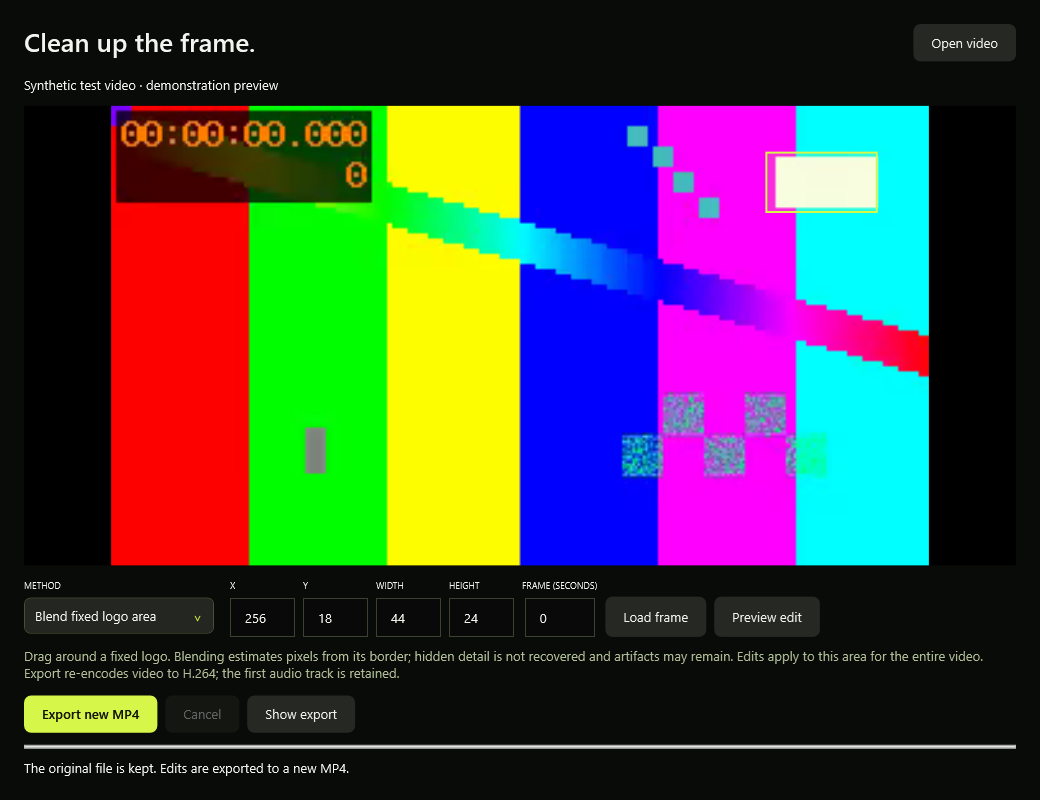
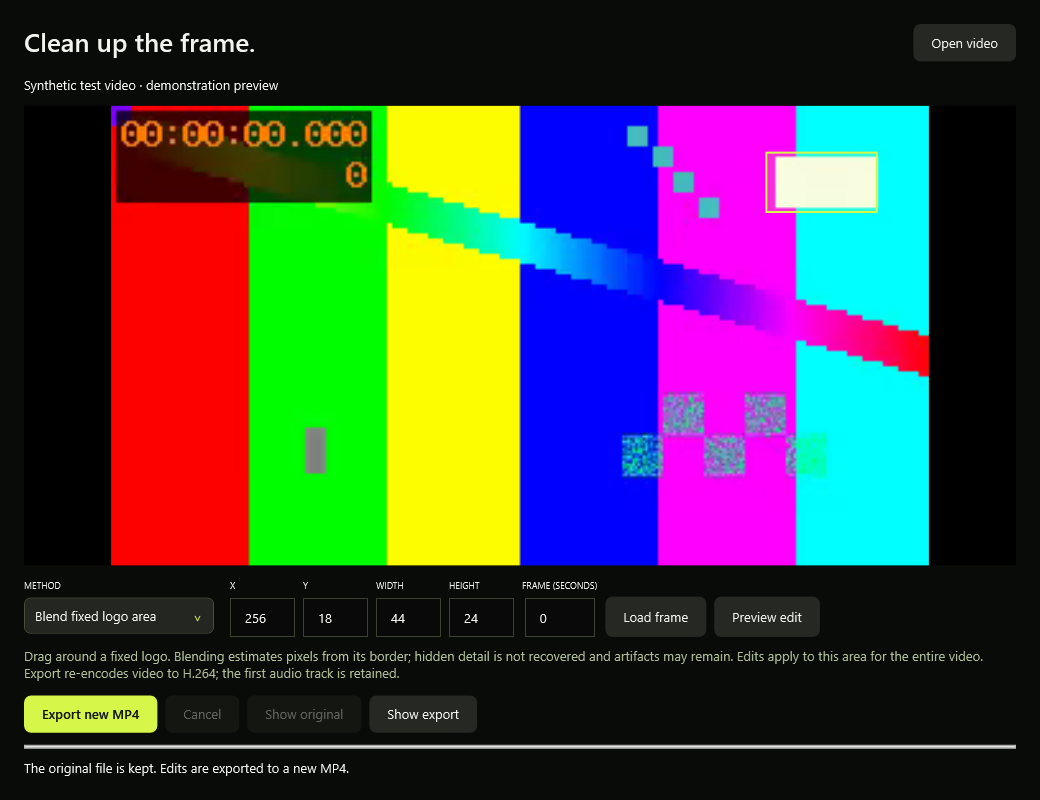
fix: refine cleanup previews and video stream selection

Changed region(s): [[0.2462, 0.8438, 0.4615, 0.9375]]

diff --git a/source/VideoCleanup.cs b/source/VideoCleanup.cs
@@ -23,7 +23,7 @@ namespace ClearFrame {
         public static VideoInfo ReadInfo(string json) {
             var root = Core.Json.Deserialize<Dictionary<string, object>>(json);
             var streams = Core.Entries(root, "streams").ToList();
-            var video = streams.FirstOrDefault(s => Core.S(s, "codec_type") == "video" && Core.N(s, "width") > 0);
+            var video = streams.FirstOrDefault(s => Core.S(s, "codec_type") == "video" && Core.N(s, "width") > 0 && !IsCoverArt(s));
             if (video == null) throw new Exception("This file does not contain a readable video stream.");
             string transfer = Core.S(video, "color_transfer");
             if (transfer == "smpte2084" || transfer == "arib-std-b67") throw new Exception("HDR editing is not supported in this version. Use an SDR source to avoid unexpected colors.");
@@ -35,10 +35,22 @@ namespace ClearFrame {
             object raw;
             var format = root.TryGetValue("format", out raw) ? raw as Dictionary<string, object> : null;
             double duration = format == null ? 0 : Core.N(format, "duration");
-            if (duration <= 0) throw new Exception("Cannot determine this video's duration.");
+            if (double.IsNaN(duration) || double.IsInfinity(duration) || duration <= 0 || duration > TimeSpan.MaxValue.TotalSeconds) throw new Exception("Cannot determine this video's duration.");
+            if (width <= 0 || height <= 0) throw new Exception("Cannot determine this video's dimensions.");
             if (width % 2 != 0 || height % 2 != 0) throw new Exception("This editor currently requires even video dimensions for H.264 export.");
             var audio = streams.FirstOrDefault(s => Core.S(s, "codec_type") == "audio");
             return new VideoInfo { Width = width, Height = height, Duration = duration, Audio = audio != null, AudioCodec = audio == null ? "" : Core.S(audio, "codec_name") };
+        }
+        static bool IsCoverArt(Dictionary<string, object> stream) {
+            object value;
+            var disposition = stream.TryGetValue("disposition", out value) ? value as Dictionary<string, object> : null;
+            return disposition != null && Core.N(disposition, "attached_pic") != 0;
+        }
+        public static double FrameTime(string text, double duration) {
+            double value;
+            if (!double.TryParse(text, NumberStyles.Float, CultureInfo.InvariantCulture, out value) || double.IsNaN(value) || double.IsInfinity(value) || value < 0 || value >= duration)
+                throw new Exception("Enter a frame time from 0 up to the video's duration, in seconds.");
+            return value;
         }
         public static string Filter(string mode, int x, int y, int width, int height, int videoWidth, int videoHeight) {
             if (x < 0 || y < 0 || width < 8 || height < 8 || (long)x + width > videoWidth || (long)y + height > videoHeight)
@@ -59,7 +71,10 @@ namespace ClearFrame {
                 throw new Exception("Export verification failed: dimensions, audio or duration did not match.");
         }
         public static List<string> ExportArgs(string input, string output, string filter, bool copyAudio) {
-            return new List<string> { "-hide_banner", "-loglevel", "error", "-nostdin", "-n", "-i", input, "-map", "0:v:0", "-map", "0:a:0?", "-vf", filter, "-c:v", "libx264", "-preset", "medium", "-crf", "18", "-pix_fmt", "yuv420p", "-c:a", copyAudio ? "copy" : "aac", "-map_metadata", "-1", "-movflags", "+faststart", "-progress", "pipe:1", "-nostats", output };
+            return new List<string> { "-hide_banner", "-loglevel", "error", "-nostdin", "-n", "-i", input, "-map", "0:V:0", "-map", "0:a:0?", "-vf", filter, "-c:v", "libx264", "-preset", "medium", "-crf", "18", "-pix_fmt", "yuv420p", "-c:a", copyAudio ? "copy" : "aac", "-map_metadata", "-1", "-movflags", "+faststart", "-progress", "pipe:1", "-nostats", output };
+        }
+        public static string[] PreviewArgs(string input, string output, string filter, double seconds) {
+            return new[] { "-hide_banner", "-loglevel", "error", "-nostdin", "-ss", seconds.ToString(CultureInfo.InvariantCulture), "-i", input, "-map", "0:V:0", "-frames:v", "1", "-vf", (string.IsNullOrEmpty(filter) ? "" : filter + ",") + "scale=960:540:force_original_aspect_ratio=decrease:reset_sar=1", "-update", "1", "-y", output };
         }
     }
     public class VideoCleanup {
@@ -77,11 +92,13 @@ namespace ClearFrame {
         readonly Button open = new Button { Content = "Open video" };
         readonly Button refresh = new Button { Content = "Load frame" };
         readonly Button previewEdit = new Button { Content = "Preview edit" };
+        readonly Button compare = new Button { Content = "Show original", IsEnabled = false };
         readonly Button export = new Button { Content = "Export new MP4" };
         readonly Button cancel = new Button { Content = "Cancel", IsEnabled = false };
         readonly ProgressBar progress = new ProgressBar { Height = 4, Minimum = 0, Maximum = 100 };
         VideoInfo info;
-        string input, lastFrame, outputFile;
+        string input, outputFile;
+        BitmapSource originalFrame, processedFrame;
         CancellationTokenSource cancellation;
         bool busy, selecting, updatingFields, editedPreview;
         Point start;
@@ -97,16 +114,16 @@ namespace ClearFrame {
             var options = new WrapPanel { Margin = new Thickness(0,14,0,10) }; Grid.SetRow(options,3); layout.Children.Add(options);
             method.Items.Add("Blend fixed logo area"); method.Items.Add("Blur selected area"); method.Items.Add("Crop to selected area"); method.SelectedIndex = 0; options.Children.Add(Field("METHOD",method,16));
             string[] names = { "X", "Y", "WIDTH", "HEIGHT" };
-            for(int i=0;i<4;i++) { fields[i]=new TextBox { Text="0", Width=65 }; options.Children.Add(Field(names[i],fields[i],8)); fields[i].TextChanged+=(s,e)=> { if(!updatingFields)DrawSelection(); }; }
+            for(int i=0;i<4;i++) { fields[i]=new TextBox { Text="0", Width=65 }; options.Children.Add(Field(names[i],fields[i],8)); fields[i].TextChanged+=(s,e)=> { if(!updatingFields){InvalidateEdit();DrawSelection();} }; }
             options.Children.Add(Field("FRAME (SECONDS)",seconds,8)); refresh.Margin=new Thickness(0,17,8,0);options.Children.Add(refresh);previewEdit.Margin=new Thickness(0,17,0,0);options.Children.Add(previewEdit);
             help.Foreground = new SolidColorBrush(Color.FromRgb(177,191,153)); help.Margin = new Thickness(0,0,0,14); Grid.SetRow(help,4); layout.Children.Add(help);
             var footer = new Grid(); footer.RowDefinitions.Add(new RowDefinition{Height=GridLength.Auto});footer.RowDefinitions.Add(new RowDefinition{Height=GridLength.Auto});footer.RowDefinitions.Add(new RowDefinition{Height=GridLength.Auto});Grid.SetRow(footer,5);layout.Children.Add(footer);
-            var buttons=new StackPanel{Orientation=Orientation.Horizontal};export.Style=(Style)owner.FindResource("Primary");export.Margin=new Thickness(0,0,8,0);buttons.Children.Add(export);buttons.Children.Add(cancel);var show=new Button{Content="Show export",Margin=new Thickness(8,0,0,0)};show.Click+=(s,e)=>{if(!string.IsNullOrEmpty(outputFile)&&File.Exists(outputFile))System.Diagnostics.Process.Start("explorer.exe","/select,"+Core.Quote(outputFile));};buttons.Children.Add(show);footer.Children.Add(buttons);
+            var buttons=new StackPanel{Orientation=Orientation.Horizontal};export.Style=(Style)owner.FindResource("Primary");export.Margin=new Thickness(0,0,8,0);buttons.Children.Add(export);buttons.Children.Add(cancel);compare.Margin=new Thickness(8,0,0,0);buttons.Children.Add(compare);var show=new Button{Content="Show export",Margin=new Thickness(8,0,0,0)};show.Click+=(s,e)=>{try{if(!string.IsNullOrEmpty(outputFile)&&File.Exists(outputFile))System.Diagnostics.Process.Start("explorer.exe","/select,"+Core.Quote(outputFile));else status.Text="Export a video first to show its location.";}catch(Exception ex){status.Text="Could not open the export location: "+ex.Message;}};buttons.Children.Add(show);footer.Children.Add(buttons);
             progress.Margin=new Thickness(0,12,0,10);Grid.SetRow(progress,1);footer.Children.Add(progress);Grid.SetRow(status,2);footer.Children.Add(status);
             window.Content=layout;
             open.Click+=async(s,e)=>await Open();refresh.Click+=async(s,e)=>await Frame(false);previewEdit.Click+=async(s,e)=>await Frame(true);export.Click+=async(s,e)=>await Export();cancel.Click+=(s,e)=>{if(cancellation!=null)cancellation.Cancel();};
-            method.SelectionChanged+=(s,e)=>Hint(); Hint();SetBusy(false);
-            canvas.MouseLeftButtonDown+=(s,e)=>{if(info==null||busy)return;if(editedPreview){status.Text="Use Load frame to select an area on the original picture.";return;}start=ToVideo(e.GetPosition(canvas));selecting=true;canvas.CaptureMouse();e.Handled=true;};
+            method.SelectionChanged+=(s,e)=>{Hint();InvalidateEdit();};seconds.TextChanged+=(s,e)=>ClearFrames();compare.Click+=(s,e)=>ShowFrame(!editedPreview); Hint();SetBusy(false);
+            canvas.MouseLeftButtonDown+=(s,e)=>{if(info==null||busy||picture.Source==null)return;if(editedPreview){status.Text="Use Show original to select an area on the original picture.";return;}start=ToVideo(e.GetPosition(canvas));selecting=true;canvas.CaptureMouse();e.Handled=true;};
             canvas.MouseMove+=(s,e)=>{if(!selecting)return;Point end=ToVideo(e.GetPosition(canvas));SetRectangle((int)Math.Min(start.X,end.X),(int)Math.Min(start.Y,end.Y),(int)Math.Abs(start.X-end.X),(int)Math.Abs(start.Y-end.Y));};
             canvas.MouseLeftButtonUp+=(s,e)=>{selecting=false;canvas.ReleaseMouseCapture();};canvas.SizeChanged+=(s,e)=>DrawSelection();
             window.Closing+=(s,e)=>{if(busy){e.Cancel=true;status.Text="Cancel the current operation and wait before closing.";}};
@@ -114,18 +131,29 @@ namespace ClearFrame {
         StackPanel Field(string label,FrameworkElement control,int margin){var panel=new StackPanel{Margin=new Thickness(0,0,margin,0)};panel.Children.Add(new TextBlock{Text=label,FontSize=9,Margin=new Thickness(0,0,0,6)});panel.Children.Add(control);return panel;}
         string Mode(){return new[]{"blend","blur","crop"}[method.SelectedIndex];}
         void Hint(){help.Text=Mode()=="crop"?"Drag the rectangle around the picture you want to KEEP. Everything outside it is removed.":Mode()=="blend"?"Drag around a fixed logo. Blending estimates pixels from its border; hidden detail is not recovered and artifacts may remain.":"Drag around the area to obscure. Blur hides detail; it does not reconstruct the original picture.";help.Text+=" Edits apply to this area for the entire video. Export re-encodes video to H.264; the first audio track is retained.";}
-        void SetBusy(bool value){busy=value;open.IsEnabled=!value;refresh.IsEnabled=!value&&info!=null;previewEdit.IsEnabled=!value&&info!=null;export.IsEnabled=!value&&info!=null;method.IsEnabled=!value;seconds.IsEnabled=!value;foreach(var field in fields)field.IsEnabled=!value;cancel.IsEnabled=value;}
+        void SetBusy(bool value){busy=value;open.IsEnabled=!value;refresh.IsEnabled=!value&&info!=null;previewEdit.IsEnabled=!value&&info!=null;export.IsEnabled=!value&&info!=null;method.IsEnabled=!value;seconds.IsEnabled=!value;foreach(var field in fields)field.IsEnabled=!value;cancel.IsEnabled=value;compare.IsEnabled=!value&&originalFrame!=null&&processedFrame!=null;}
         string Tool(string name){string file=Path.Combine(tools,name+".exe");if(!File.Exists(file))throw new Exception("Missing "+name+". Run Get-Tools.ps1 before using video cleanup.");return file;}
         async Task<string> Probe(string path,CancellationToken token){var r=await Core.Run(Tool("ffprobe"),new[]{"-v","error","-show_streams","-show_format","-of","json",path},token,60,null);if(r.Code!=0)throw new Exception(Core.Friendly(r.Error));return r.Output;}
-        async Task Open(){var dialog=new OpenFileDialog{Filter="Video files|*.mp4;*.mkv;*.mov;*.webm;*.avi;*.m4v|All files|*.*"};if(dialog.ShowDialog(window)!=true)return;bool loaded=false;SetBusy(true);cancellation=new CancellationTokenSource();try{var details=CleanupCore.ReadInfo(await Probe(dialog.FileName,cancellation.Token));input=dialog.FileName;info=details;loaded=true;editedPreview=false;fileLabel.Text=Path.GetFileName(input)+" · "+info.Width+" × "+info.Height+" · "+TimeSpan.FromSeconds(info.Duration).ToString(@"hh\:mm\:ss");SetRectangle(Math.Max(2,info.Width/10),Math.Max(2,info.Height/10),Math.Max(8,info.Width/5),Math.Max(8,info.Height/5));seconds.Text="0";picture.Source=null;status.Text="Video loaded. Drag on the frame to select the area.";}catch(Exception ex){status.Text=ex.Message;}finally{cancellation.Dispose();cancellation=null;SetBusy(false);}if(loaded)await Frame(false);}
-        double FrameTime(){double value;if(!double.TryParse(seconds.Text,NumberStyles.Float,CultureInfo.InvariantCulture,out value)||value<0||value>=info.Duration)throw new Exception("Enter a frame time from 0 up to the video's duration, in seconds.");return value;}
+        async Task Open(){var dialog=new OpenFileDialog{Filter="Video files|*.mp4;*.mkv;*.mov;*.webm;*.avi;*.m4v|All files|*.*"};if(dialog.ShowDialog(window)!=true)return;bool loaded=false;SetBusy(true);cancellation=new CancellationTokenSource();try{var details=CleanupCore.ReadInfo(await Probe(dialog.FileName,cancellation.Token));input=dialog.FileName;info=details;loaded=true;ClearFrames();fileLabel.Text=Path.GetFileName(input)+" · "+info.Width+" × "+info.Height+" · "+TimeSpan.FromSeconds(info.Duration).ToString(@"hh\:mm\:ss");SetRectangle(Math.Max(2,info.Width/10),Math.Max(2,info.Height/10),Math.Max(8,info.Width/5),Math.Max(8,info.Height/5));seconds.Text="0";status.Text="Video loaded. Drag on the frame to select the area.";}catch(Exception ex){status.Text=ex.Message;}finally{cancellation.Dispose();cancellation=null;SetBusy(false);}if(loaded)await Frame(false);}
         int[] Region(){int[] r=new int[4];for(int i=0;i<4;i++)if(!int.TryParse(fields[i].Text,out r[i]))throw new Exception("Rectangle values must be whole pixels.");return r;}
         string Filter(){var r=Region();return CleanupCore.Filter(Mode(),r[0],r[1],r[2],r[3],info.Width,info.Height);}
-        async Task Frame(bool edited){if(info==null||busy)return;SetBusy(true);cancellation=new CancellationTokenSource();try{Directory.CreateDirectory(cache);lastFrame=Path.Combine(cache,Guid.NewGuid().ToString("N")+".png");string filter=(edited?Filter()+",":"")+"scale=960:540:force_original_aspect_ratio=decrease,setsar=1";var r=await Core.Run(Tool("ffmpeg"),new[]{"-hide_banner","-loglevel","error","-nostdin","-ss",FrameTime().ToString(CultureInfo.InvariantCulture),"-i",input,"-frames:v","1","-vf",filter,"-update","1","-y",lastFrame},cancellation.Token,90,null);if(r.Code!=0)throw new Exception(Core.Friendly(r.Error));var bitmap=new BitmapImage();bitmap.BeginInit();bitmap.CacheOption=BitmapCacheOption.OnLoad;bitmap.UriSource=new Uri(lastFrame);bitmap.EndInit();bitmap.Freeze();picture.Source=bitmap;editedPreview=edited;selection.Visibility=edited?Visibility.Hidden:Visibility.Visible;status.Text=edited?"Edited-frame preview. Load frame returns to the original for selecting an area.":"Original frame. Drag to select an area, then preview the edit.";DrawSelection();}catch(OperationCanceledException){status.Text="Preview cancelled.";}catch(Exception ex){status.Text=ex.Message;}finally{if(lastFrame!=null&&File.Exists(lastFrame))try{File.Delete(lastFrame);}catch{} cancellation.Dispose();cancellation=null;SetBusy(false);}}
-        Rect DisplayRect(){double scale=Math.Min(canvas.ActualWidth/info.Width,canvas.ActualHeight/info.Height);return new Rect((canvas.ActualWidth-info.Width*scale)/2,(canvas.ActualHeight-info.Height*scale)/2,info.Width*scale,info.Height*scale);}
+        void ClearFrames(){originalFrame=null;processedFrame=null;picture.Source=null;editedPreview=false;selection.Visibility=Visibility.Hidden;compare.IsEnabled=false;compare.Content="Show original";if(info!=null)status.Text="Frame time changed. Load frame or Preview edit to view it.";}
+        void InvalidateEdit(){processedFrame=null;compare.IsEnabled=false;if(editedPreview)ShowFrame(false);}
+        void ShowFrame(bool edited){var frame=edited?processedFrame:originalFrame;if(frame==null)return;picture.Source=frame;editedPreview=edited;selection.Visibility=edited?Visibility.Hidden:Visibility.Visible;compare.Content=edited?"Show original":"Show edit";compare.IsEnabled=!busy&&originalFrame!=null&&processedFrame!=null;status.Text=edited?"Edited frame. Show original compares the same frame before editing.":"Original frame. Drag to select an area, then preview the edit.";DrawSelection();}
+        async Task<BitmapSource> ReadFrame(string filter,double time,CancellationToken token){
+            Directory.CreateDirectory(cache);string path=Path.Combine(cache,Guid.NewGuid().ToString("N")+".png");
+            try{var result=await Core.Run(Tool("ffmpeg"),CleanupCore.PreviewArgs(input,path,filter,time),token,90,null);if(result.Code!=0)throw new Exception(Core.Friendly(result.Error));token.ThrowIfCancellationRequested();var bitmap=new BitmapImage();bitmap.BeginInit();bitmap.CacheOption=BitmapCacheOption.OnLoad;bitmap.UriSource=new Uri(path);bitmap.EndInit();bitmap.Freeze();return bitmap;}
+            finally{if(File.Exists(path))try{File.Delete(path);}catch{}}
+        }
+        async Task Frame(bool edited){
+            if(info==null||busy)return;SetBusy(true);cancellation=new CancellationTokenSource();
+            try{double time=CleanupCore.FrameTime(seconds.Text,info.Duration);string filter=edited?Filter():null;if(originalFrame==null||!edited){originalFrame=await ReadFrame(null,time,cancellation.Token);processedFrame=null;ShowFrame(false);}if(edited){processedFrame=await ReadFrame(filter,time,cancellation.Token);ShowFrame(true);}}
+            catch(OperationCanceledException){status.Text="Preview cancelled.";}catch(Exception ex){status.Text=ex.Message;}finally{cancellation.Dispose();cancellation=null;SetBusy(false);}
+        }
+        Rect DisplayRect(){double width=originalFrame==null?info.Width:originalFrame.PixelWidth,height=originalFrame==null?info.Height:originalFrame.PixelHeight;double scale=Math.Min(canvas.ActualWidth/width,canvas.ActualHeight/height);return new Rect((canvas.ActualWidth-width*scale)/2,(canvas.ActualHeight-height*scale)/2,width*scale,height*scale);}
         Point ToVideo(Point p){var rect=DisplayRect();return new Point(Math.Max(0,Math.Min(info.Width,(p.X-rect.X)/rect.Width*info.Width)),Math.Max(0,Math.Min(info.Height,(p.Y-rect.Y)/rect.Height*info.Height)));}
-        void SetRectangle(int x,int y,int width,int height){updatingFields=true;int[] r={x/2*2,y/2*2,width/2*2,height/2*2};for(int i=0;i<4;i++)fields[i].Text=r[i].ToString();updatingFields=false;DrawSelection();}
-        void DrawSelection(){if(info==null||canvas.ActualWidth<=0)return;try{var r=Region();var rect=DisplayRect();double scale=rect.Width/info.Width;Canvas.SetLeft(selection,rect.X+r[0]*scale);Canvas.SetTop(selection,rect.Y+r[1]*scale);selection.Width=Math.Max(0,r[2]*scale);selection.Height=Math.Max(0,r[3]*scale);}catch{}}
+        void SetRectangle(int x,int y,int width,int height){updatingFields=true;int[] r={x/2*2,y/2*2,width/2*2,height/2*2};for(int i=0;i<4;i++)fields[i].Text=r[i].ToString();updatingFields=false;InvalidateEdit();DrawSelection();}
+        void DrawSelection(){if(info==null||canvas.ActualWidth<=0)return;try{var r=Region();var rect=DisplayRect();double scaleX=rect.Width/info.Width,scaleY=rect.Height/info.Height;Canvas.SetLeft(selection,rect.X+r[0]*scaleX);Canvas.SetTop(selection,rect.Y+r[1]*scaleY);selection.Width=Math.Max(0,r[2]*scaleX);selection.Height=Math.Max(0,r[3]*scaleY);}catch{}}
         async Task Export(){if(info==null||busy)return;string filter;int[] region;try{filter=Filter();region=Region();}catch(Exception ex){status.Text=ex.Message;return;}var dialog=new SaveFileDialog{Filter="MP4 video|*.mp4",DefaultExt=".mp4",AddExtension=true,FileName=Path.GetFileNameWithoutExtension(input)+"-clean.mp4",InitialDirectory=Path.GetDirectoryName(input),OverwritePrompt=false};if(dialog.ShowDialog(window)!=true)return;string target=Path.GetFullPath(dialog.FileName);if(File.Exists(target)){status.Text="Choose a new filename. Existing files, including the original, are never overwritten.";return;}if(!string.Equals(Path.GetExtension(target),".mp4",StringComparison.OrdinalIgnoreCase)){status.Text="This version exports MP4 files. Use the .mp4 extension.";return;}
             string temporary=target+".partial-"+Guid.NewGuid().ToString("N")+".mp4";SetBusy(true);progress.Value=0;cancellation=new CancellationTokenSource();try{var drive=new DriveInfo(Path.GetPathRoot(target));if(drive.IsReady&&drive.AvailableFreeSpace<Math.Max(new FileInfo(input).Length,536870912L))throw new Exception("Free additional disk space before exporting. Final output size depends on the source.");status.Text="Exporting a new MP4. You can cancel; the original is kept.";
                 var result=await Core.Run(Tool("ffmpeg"),CleanupCore.ExportArgs(input,temporary,filter,info.AudioCodec=="aac"),cancellation.Token,86400,line=>{if(line.StartsWith("out_time_us=")){double time;if(double.TryParse(line.Substring(12),NumberStyles.Float,CultureInfo.InvariantCulture,out time))window.Dispatcher.BeginInvoke(new Action(()=>progress.Value=Math.Min(99,time/1000000/info.Duration*100)));}});
@@ -133,9 +161,29 @@ namespace ClearFrame {
             }catch(OperationCanceledException){status.Text="Export cancelled. Original file kept.";}catch(Exception ex){status.Text=ex.Message;}finally{if(File.Exists(temporary))try{File.Delete(temporary);}catch{} cancellation.Dispose();cancellation=null;SetBusy(false);}
         }
         public void Show(){window.ShowDialog();}
+        public void CheckOfflineInterface(string report){
+            int checks=0;Action<bool,string> check=(ok,name)=>{if(!ok)throw new Exception("Editor check failed: "+name);checks++;};
+            check(!compare.IsEnabled&&!export.IsEnabled,"empty editor actions");
+            info=new VideoInfo{Width=320,Height=180,Duration=2};
+            var before=BitmapSource.Create(320,180,96,96,PixelFormats.Bgr32,null,new byte[320*180*4],320*4);before.Freeze();
+            var after=BitmapSource.Create(240,180,96,96,PixelFormats.Bgr32,null,new byte[240*180*4],240*4);after.Freeze();
+            originalFrame=before;processedFrame=after;SetBusy(false);ShowFrame(true);
+            check(picture.Source==after&&compare.IsEnabled&&selection.Visibility==Visibility.Hidden,"edited preview");
+            compare.RaiseEvent(new RoutedEventArgs(Button.ClickEvent));
+            check(picture.Source==before&&selection.Visibility==Visibility.Visible&&(string)compare.Content=="Show edit","original comparison");
+            compare.RaiseEvent(new RoutedEventArgs(Button.ClickEvent));check(picture.Source==after,"cached edit comparison");
+            fields[0].Text="12";check(picture.Source==before&&processedFrame==null&&!compare.IsEnabled,"numeric edit invalidates preview");
+            processedFrame=after;ShowFrame(true);method.SelectedIndex=1;check(picture.Source==before&&processedFrame==null,"method invalidates preview");
+            processedFrame=after;ShowFrame(true);SetRectangle(10,10,40,20);check(picture.Source==before&&processedFrame==null,"drag selection invalidates preview");
+            processedFrame=after;ShowFrame(true);SetBusy(true);check(!compare.IsEnabled&&!previewEdit.IsEnabled&&!export.IsEnabled,"busy actions");SetBusy(false);
+            seconds.Text="1";check(picture.Source==null&&originalFrame==null&&processedFrame==null&&!compare.IsEnabled&&selection.Visibility==Visibility.Hidden,"time invalidates both previews");
+            originalFrame=BitmapSource.Create(640,320,96,96,PixelFormats.Bgr32,null,new byte[640*320*4],640*4);canvas.Measure(new Size(640,360));canvas.Arrange(new Rect(0,0,640,360));ShowFrame(false);SetRectangle(10,10,40,20);var point=ToVideo(new Point(320,100));
+            check(Math.Abs(point.X-160)<0.01&&Math.Abs(point.Y-45)<0.01&&Math.Abs(Canvas.GetTop(selection)-(20+10*320.0/180))<0.01,"non-square-pixel selection mapping");
+            File.WriteAllText(report,checks+" offline editor control checks passed.");
+        }
         public void Render(string file,string framePath){
             if(!string.IsNullOrEmpty(framePath)){
-                var bitmap=new BitmapImage();bitmap.BeginInit();bitmap.CacheOption=BitmapCacheOption.OnLoad;bitmap.UriSource=new Uri(Path.GetFullPath(framePath));bitmap.EndInit();bitmap.Freeze();picture.Source=bitmap;
+                var bitmap=new BitmapImage();bitmap.BeginInit();bitmap.CacheOption=BitmapCacheOption.OnLoad;bitmap.UriSource=new Uri(Path.GetFullPath(framePath));bitmap.EndInit();bitmap.Freeze();picture.Source=bitmap;originalFrame=bitmap;
                 info=new VideoInfo{Width=bitmap.PixelWidth,Height=bitmap.PixelHeight,Duration=1.5,Audio=true};fileLabel.Text="Synthetic test video · demonstration preview";SetRectangle(info.Width*4/5,info.Height/10,info.Width/7,info.Height/7);SetBusy(false);
             }
             var root=(Grid)window.Content;root.Margin=new Thickness(0);root.Width=992;root.Height=752;root.Measure(new Size(992,752));root.Arrange(new Rect(0,0,992,752));root.UpdateLayout();DrawSelection();

diff --git a/tests/CleanupMediaTests.cs b/tests/CleanupMediaTests.cs
@@ -13,6 +13,12 @@ class CleanupMediaTests {
         return result.Output;
     }
     static string Probe(string path) { return Run(ffprobe, "-v", "error", "-show_streams", "-show_format", "-of", "json", path); }
+    static void Preview(string source,string output,string filter,int width,int height) {
+        Run(ffmpeg,CleanupCore.PreviewArgs(source,output,filter,0.5));
+        var root=Core.Json.Deserialize<System.Collections.Generic.Dictionary<string,object>>(Probe(output));
+        var video=Core.Entries(root,"streams").First(s=>Core.S(s,"codec_type")=="video");
+        if(Core.N(video,"width")!=width||Core.N(video,"height")!=height)throw new Exception("Preview dimensions differ: "+output);
+    }
     static int Main(string[] args) {
         var log = new StringBuilder();
         try {
@@ -26,6 +32,8 @@ class CleanupMediaTests {
                 Run(ffmpeg, CleanupCore.ExportArgs(source, output, filter, true).ToArray());
                 CleanupCore.Verify(Probe(output), info, mode == "crop" ? 240 : 320, 180);
                 log.AppendLine("PASS: " + mode + " export dimensions, audio and duration.");
+                Preview(source,Path.Combine(args[1],mode+"-preview.png"),filter,mode=="crop"?720:960,540);
+                log.AppendLine("PASS: " + mode + " preview generation and dimensions.");
                 var denied = Core.Run(ffmpeg, CleanupCore.ExportArgs(source, output, filter, true), CancellationToken.None, 15, null).GetAwaiter().GetResult();
                 if (denied.Code == 0) throw new Exception("Existing output was overwritten.");
                 log.AppendLine("PASS: existing " + mode + " output is protected.");
@@ -37,6 +45,14 @@ class CleanupMediaTests {
             CleanupCore.Verify(Probe(tiny),info,320,180);log.AppendLine("PASS: small edge blur region.");
             string rotated=Path.Combine(args[1],"rotated.mp4");Run(ffmpeg,"-hide_banner","-loglevel","error","-y","-display_rotation:v:0","90","-i",source,"-c","copy",rotated);
             var rotationInfo=CleanupCore.ReadInfo(Probe(rotated));string rotatedOut=Path.Combine(args[1],"rotated-clean-"+Guid.NewGuid().ToString("N")+".mp4");Run(ffmpeg,CleanupCore.ExportArgs(rotated,rotatedOut,CleanupCore.Filter("blur",10,10,40,20,rotationInfo.Width,rotationInfo.Height),true).ToArray());CleanupCore.Verify(Probe(rotatedOut),rotationInfo,180,320);log.AppendLine("PASS: rotation-aware export.");
+            string silent=Path.Combine(args[1],"silent.mp4");Run(ffmpeg,"-hide_banner","-loglevel","error","-y","-i",source,"-an","-c:v","copy",silent);
+            string silentOut=Path.Combine(args[1],"silent-clean-"+Guid.NewGuid().ToString("N")+".mp4");Run(ffmpeg,CleanupCore.ExportArgs(silent,silentOut,"crop=240:180:0:0",false).ToArray());var silentInfo=CleanupCore.ReadInfo(Probe(silentOut));if(silentInfo.Audio)throw new Exception("Silent export unexpectedly contains audio.");CleanupCore.Verify(Probe(silentOut),CleanupCore.ReadInfo(Probe(silent)),240,180);log.AppendLine("PASS: silent-video export.");
+            string cover=Path.Combine(args[1],"cover.png");Run(ffmpeg,"-hide_banner","-loglevel","error","-y","-f","lavfi","-i","color=red:size=600x600","-frames:v","1",cover);
+            string covered=Path.Combine(args[1],"covered.mp4");Run(ffmpeg,"-hide_banner","-loglevel","error","-y","-i",source,"-i",cover,"-map","1:v","-map","0:v","-map","0:a","-c","copy","-disposition:v:0","attached_pic",covered);
+            string coveredJson=Probe(covered);if(!coveredJson.Contains("\"attached_pic\": 1"))throw new Exception("Fixture lacks attached cover art.");var coveredInfo=CleanupCore.ReadInfo(coveredJson);if(coveredInfo.Width!=320||coveredInfo.Height!=180)throw new Exception("Cover dimensions were selected.");
+            string coveredOut=Path.Combine(args[1],"covered-clean-"+Guid.NewGuid().ToString("N")+".mp4");Run(ffmpeg,CleanupCore.ExportArgs(covered,coveredOut,"crop=240:180:0:0",true).ToArray());CleanupCore.Verify(Probe(coveredOut),coveredInfo,240,180);Preview(covered,Path.Combine(args[1],"covered-preview.png"),null,960,540);log.AppendLine("PASS: attached cover art excluded from probe, preview and export.");
+            string multi=Path.Combine(args[1],"multiple-video.mkv");Run(ffmpeg,"-hide_banner","-loglevel","error","-y","-i",source,"-f","lavfi","-i","color=red:size=640x480:duration=1.5","-map","0:v","-map","1:v","-map","0:a","-c:v","libx264","-c:a","copy",multi);Preview(multi,Path.Combine(args[1],"multiple-preview.png"),null,960,540);log.AppendLine("PASS: preview uses first video rather than largest video stream.");
+            string anamorphic=Path.Combine(args[1],"anamorphic.mp4");Run(ffmpeg,"-hide_banner","-loglevel","error","-y","-i",source,"-vf","setsar=9/8","-c:v","libx264","-c:a","copy",anamorphic);Preview(anamorphic,Path.Combine(args[1],"anamorphic-preview.png"),null,960,480);log.AppendLine("PASS: preview preserves non-square-pixel display proportions.");
             Run(ffmpeg,"-hide_banner","-loglevel","error","-y","-i",source,"-frames:v","1",Path.Combine(args[1],"preview.png"));
             File.WriteAllText(args[2], log.ToString()); return 0;
         } catch (Exception ex) { log.AppendLine(ex.ToString()); File.WriteAllText(args[2], log.ToString()); return 1; }

diff --git a/source/ClearFrame.cs b/source/ClearFrame.cs
@@ -282,6 +282,7 @@ namespace ClearFrame {
     if(args.Length>1&&args[0]=="--verify"){Core.ValidateMedia(File.ReadAllText(args[1]),int.Parse(args[2]),double.Parse(args[3],CultureInfo.InvariantCulture));return 0;}
     var app=new Application();app.DispatcherUnhandledException+=(s,e)=>{MessageBox.Show(e.Exception.Message,"ClearFrame");e.Handled=true;};
     if(args.Length>1&&args[0]=="--render-editor"){var owner=new MainWindow(true);new VideoCleanup(owner.Window,Path.Combine(AppDomain.CurrentDomain.BaseDirectory,"tools"),Path.Combine(AppDomain.CurrentDomain.BaseDirectory,"test-state")).Render(args[1],args.Length>2?args[2]:null);return 0;}
+    if(args.Length>1&&args[0]=="--check-editor"){var owner=new MainWindow(true);new VideoCleanup(owner.Window,"","").CheckOfflineInterface(args[1]);return 0;}
     if(args.Length>1&&args[0]=="--render"){var render=new MainWindow(true);if(args.Length>2&&args[2]=="--check-ui")render.CheckOfflineInterface(args[1]+".checks.txt");int width=args.Length>3?int.Parse(args[2]):1280;int height=args.Length>3?int.Parse(args[3]):880;render.Render(args[1],width,height);return 0;}
     bool created;using(var mutex=new Mutex(true,"Local\\ClearFrame.Desktop",out created)){if(!created){MessageBox.Show("ClearFrame is already running.","ClearFrame");return 0;}app.Run(new MainWindow(false).Window);}return 0;
    }catch(Exception ex){if(args.Length>0){File.WriteAllText(Path.Combine(AppDomain.CurrentDomain.BaseDirectory,"test-error.txt"),ex.ToString());return 1;}MessageBox.Show(ex.Message,"ClearFrame could not start");return 1;}
@@ -335,6 +336,12 @@ namespace ClearFrame {
    var rotated=CleanupCore.ReadInfo("{\"streams\":[{\"codec_type\":\"video\",\"width\":320,\"height\":180,\"side_data_list\":[{\"rotation\":90}]}],\"format\":{\"duration\":\"2\"}}");Assert(rotated.Width==180&&rotated.Height==320,"rotation dimensions");
    Reject(()=>CleanupCore.ReadInfo("{\"streams\":[{\"codec_type\":\"video\",\"width\":320,\"height\":180,\"color_transfer\":\"smpte2084\"}],\"format\":{\"duration\":\"2\"}}"),"HDR rejected before lossy SDR edit");
    Assert(CleanupCore.ExportArgs("input.mp4","output.mp4","crop=240:180:0:0",true).Contains("-n"),"export never overwrites");
+   Assert(CleanupCore.FrameTime("0.5",2)==0.5,"decimal preview time");
+   foreach(string time in new[]{"NaN","Infinity","-Infinity","-1","2","bad"})Reject(()=>CleanupCore.FrameTime(time,2),"invalid preview time");
+   foreach(string duration in new[]{"NaN","Infinity","-1","0"})Reject(()=>CleanupCore.ReadInfo("{\"streams\":[{\"codec_type\":\"video\",\"width\":320,\"height\":180}],\"format\":{\"duration\":\""+duration+"\"}}"),"invalid editor duration");
+   string cover="{\"codec_type\":\"video\",\"width\":600,\"height\":600,\"disposition\":{\"attached_pic\":1}}";
+   var covered=CleanupCore.ReadInfo("{\"streams\":["+cover+",{\"codec_type\":\"video\",\"width\":320,\"height\":180}],\"format\":{\"duration\":\"2\"}}");Assert(covered.Width==320&&covered.Height==180,"ignore cover art when reading dimensions");
+   Reject(()=>CleanupCore.ReadInfo("{\"streams\":["+cover+",{\"codec_type\":\"audio\"}],\"format\":{\"duration\":\"2\"}}"),"cover art alone is not video");
    string valid="{\"streams\":[{\"codec_type\":\"video\",\"width\":1920,\"height\":1080},{\"codec_type\":\"audio\"}],\"format\":{\"duration\":\"10\"}}";
    Core.ValidateMedia(valid,1080,10);count++;Reject(()=>Core.ValidateMedia(valid,720,10),"resolution mismatch");Reject(()=>Core.ValidateMedia(valid,1080,100),"truncation");
    Assert(Core.Quote("a b")=="\"a b\"","quote spaces");Assert(Core.Quote("C:\\folder\\")=="\"C:\\folder\\\\\"","quote trailing slash");Assert(Core.Quote("a\"b")=="\"a\\\"b\"","quote embedded quote");

diff --git a/docs/VIDEO-CLEANUP.md b/docs/VIDEO-CLEANUP.md
@@ -7,7 +7,7 @@ ClearFrame never adds watermarks to downloads. This editor handles a logo or tex
 1. Finish or stop the download queue and choose **Video cleanup** in the sidebar.
 2. Open a local SDR video. Choose a frame time in seconds and select **Load frame**.
 3. Choose the method and drag a rectangle on the original frame. Numeric X, Y, width and height values are available for precise adjustment. Coordinates and sizes use even pixel values for H.264 compatibility.
-4. Select **Preview edit** to inspect that frame. **Load frame** returns to the original for selecting another area.
+4. Select **Preview edit** to inspect that frame. Use **Show original / Show edit** to compare the same frame instantly. Changing the rectangle or method returns to the original and discards the old edit preview; select **Preview edit** again to see the new result. Changing the frame time clears both previews until you load or preview the new time.
 5. Select **Export new MP4** and choose a new filename. The source and existing output files are not overwritten. Exports are checked for expected dimensions, duration and audio presence.
 
 ## Methods
@@ -22,6 +22,7 @@ ClearFrame never adds watermarks to downloads. This editor handles a logo or tex
 - Video is re-encoded to H.264, CRF 18, 8-bit YUV 4:2:0 in MP4. This is not lossless and can change file size substantially.
 - The first audio track is retained; AAC is copied when possible and other codecs are converted to AAC. Additional audio tracks, embedded subtitles and source metadata are not copied.
 - HDR inputs are rejected instead of silently producing an incorrect SDR result. Even pixel dimensions and common 90-degree rotation steps are supported.
+- Embedded cover art is ignored. If a file has multiple video streams, the first ordinary video stream is used throughout. Previews account for non-square pixels when drawing and positioning the selection.
 - A selected-frame preview does not prove the edit looks good throughout a moving scene. Check representative frame times and inspect the complete export.
 - Cancellation removes the editor's temporary output when possible and leaves the input unchanged. A crash can leave a `.partial-...mp4` file beside the chosen destination; it can be removed after the app is closed.
-- The local synthetic-media export tests cover the three filters, small edge regions, rotated video, file protection and audio/duration checks. Manual full-editor interaction and every possible codec/container combination remain unverified.
+- Local synthetic-media checks cover all three filters and their previews, small edge regions, rotated video, silent video, embedded cover art, multiple video streams, non-square-pixel previews, file protection and audio/duration checks. Offline control checks cover preview comparison and invalidation. Manual full-editor interaction and every possible codec/container combination remain unverified.

diff --git a/CHANGELOG.md b/CHANGELOG.md
@@ -4,6 +4,25 @@ Changes follow semantic versioning. During `0.x`, minor releases may change beha
 
 ## [Unreleased]
 
+## [0.3.1] - 2026-10-01
+
+### Improved
+
+- Instant **Show original / Show edit** comparison of the same preview frame.
+- Changing the rectangle or method discards stale edited previews and returns to the original. Changing the frame time clears both previews.
+
+### Fixed
+
+- Consistent video stream selection for metadata, previews and exports; embedded cover art is excluded.
+- Correct preview proportions and selection mapping for non-square-pixel video.
+- Invalid or non-finite frame times and source durations are rejected before processing.
+- Export-location failures show a message in the editor.
+
+### Verified
+
+- 68 core checks, 20 offline WPF control checks, subprocess checks and 16 synthetic-media checks passed locally.
+- Added preview generation tests for all three methods, plus silent export, cover art, multiple video streams and non-square-pixel preview tests.
+
 ## [0.3.0] - 2026-10-01
 
 ### Added
@@ -43,6 +62,7 @@ Changes follow semantic versioning. During `0.x`, minor releases may change beha
 - Playlist expansion, scheduled downloads, clips and account-required downloads are not implemented.
 - Live network tests covered short clips; full interactive restart/resume testing is not complete.
 
-[Unreleased]: https://github.com/spade-codee/clearframe/compare/v0.3.0...HEAD
+[Unreleased]: https://github.com/spade-codee/clearframe/compare/v0.3.1...HEAD
+[0.3.1]: https://github.com/spade-codee/clearframe/releases/tag/v0.3.1
 [0.3.0]: https://github.com/spade-codee/clearframe/releases/tag/v0.3.0
 [0.2.0]: https://github.com/spade-codee/clearframe/releases/tag/v0.2.0

diff --git a/docs/TEST-RESULTS.md b/docs/TEST-RESULTS.md
@@ -1,5 +1,12 @@
 # Verification — 1 October 2026
 
+## Version 0.3.1
+
+- 68 core checks, 10 main-interface checks, 10 editor-control checks and subprocess argument/cancellation/timeout checks passed.
+- Editor checks construct real WPF controls without opening a desktop window: comparison toggle, stale-preview invalidation after numeric/drag/method/time changes, busy-state actions and non-square-pixel selection mapping.
+- 16 synthetic-media checks passed with the pinned FFmpeg build. Added all three preview filters, silent video export, attached cover art exclusion, first-video selection in a multistream file, and correct display proportions for non-square-pixel previews.
+- Full manual interaction remains unverified. GitHub CI runs the core, offline WPF and subprocess checks; media checks were run locally with the pinned tools.
+
 ## Version 0.3.0
 
 - 55 core checks and 10 offline WPF control checks passed, plus subprocess argument/cancellation/timeout checks.

diff --git a/README.md b/README.md
@@ -15,7 +15,7 @@ A portable Windows desktop app for saving YouTube video and audio to your own li
 - Searchable library, status filters, queue ordering, retry-all, playback and saved preferences.
 - Optional subtitles, bandwidth limits and automatic video/audio merging.
 - Verification of saved media streams, resolution and duration.
-- Local-video cleanup: select a fixed logo/text region to blend or blur, or crop away an edge. Preview the result and export a separate MP4.
+- Local-video cleanup: select a fixed logo/text region to blend or blur, or crop away an edge. Compare original and edited frames instantly, then export a separate MP4.
 
 Higher quality and codecs depend on what the source offers. This is an early `0.x` release; complete UI-driven restart/resume testing is still outstanding.
 
